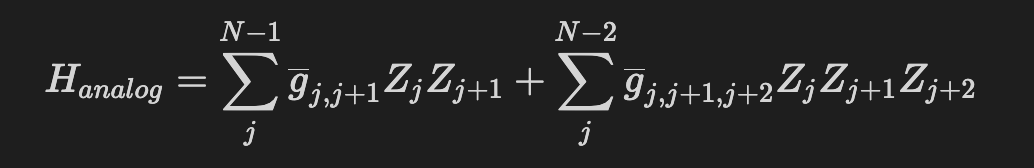
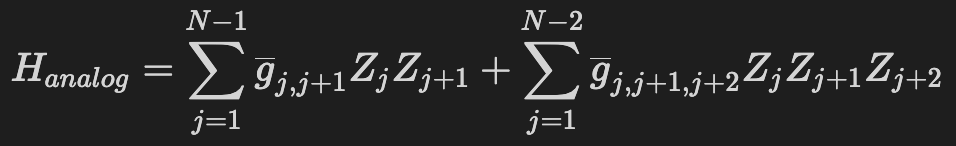
update formula images

diff --git a/README.md b/README.md
@@ -39,12 +39,12 @@ For quantum chemistry, you can now do the following:
 
 Normally, VQE uses digital quantum gates. However, the multi-qubit gates involved in a VQE ansatz can be switched to analog multi-qubit blocks.  
 
-The challenge is to combine both approaches and create a VQE implementation that uses analog multi-qubit blocks. This is a promising approach to utilize DAQC.
+The challenge is to combine both approaches and create a VQE implementation that uses analog multi-qubit blocks. This is a promising approach to utilize DAQC. Your first challenge is to develop a circuit ansatz and choose a parametrization for it.
 
 Start trying with a nearest-neighbors Ising Hamiltonian on a one-dimensional device (where all N qubits are lined up in a string like so: x—x—x—x):
 
-![Formula](assets/formula0.png)
 
+  ![Formula](assets/formula0.png)
 
 After this, your new version should be compared to a solely digital approach (one that uses just normal gates). Then you can really spice things up and see how things change. We have some recommendations below.
 
@@ -69,7 +69,7 @@ The second notebook will show you how to build an analog multi-qubit block in Qi
 ## Ideas for experimentation
 After you finished your first implementation of DAQC VQE, we encourage you to experiment with the concept and your code. Please find below some ideas:
 * Instead of just a two-body Ising Hamiltonian you can also include three-body terms such as: 
-
+  
   ![Formula](assets/formula.png)
   
   As there are more entangling terms, this Hamiltonian may allow for more entanglement per layer of the ansatz. How does that affect the result, or the number of layers required?
